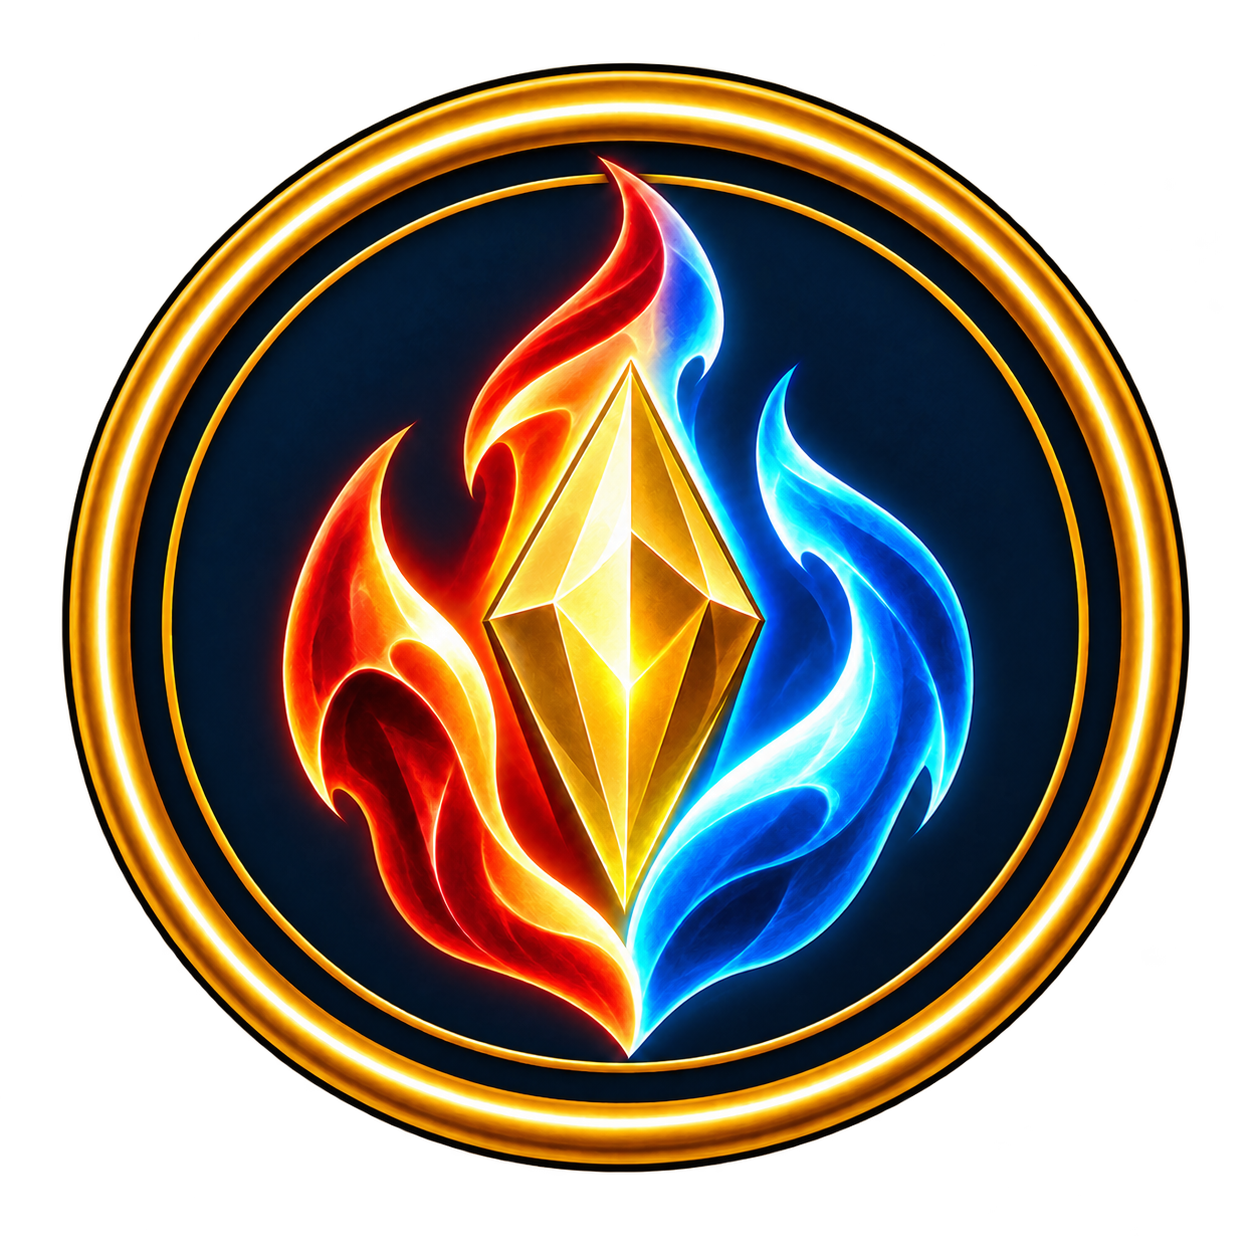
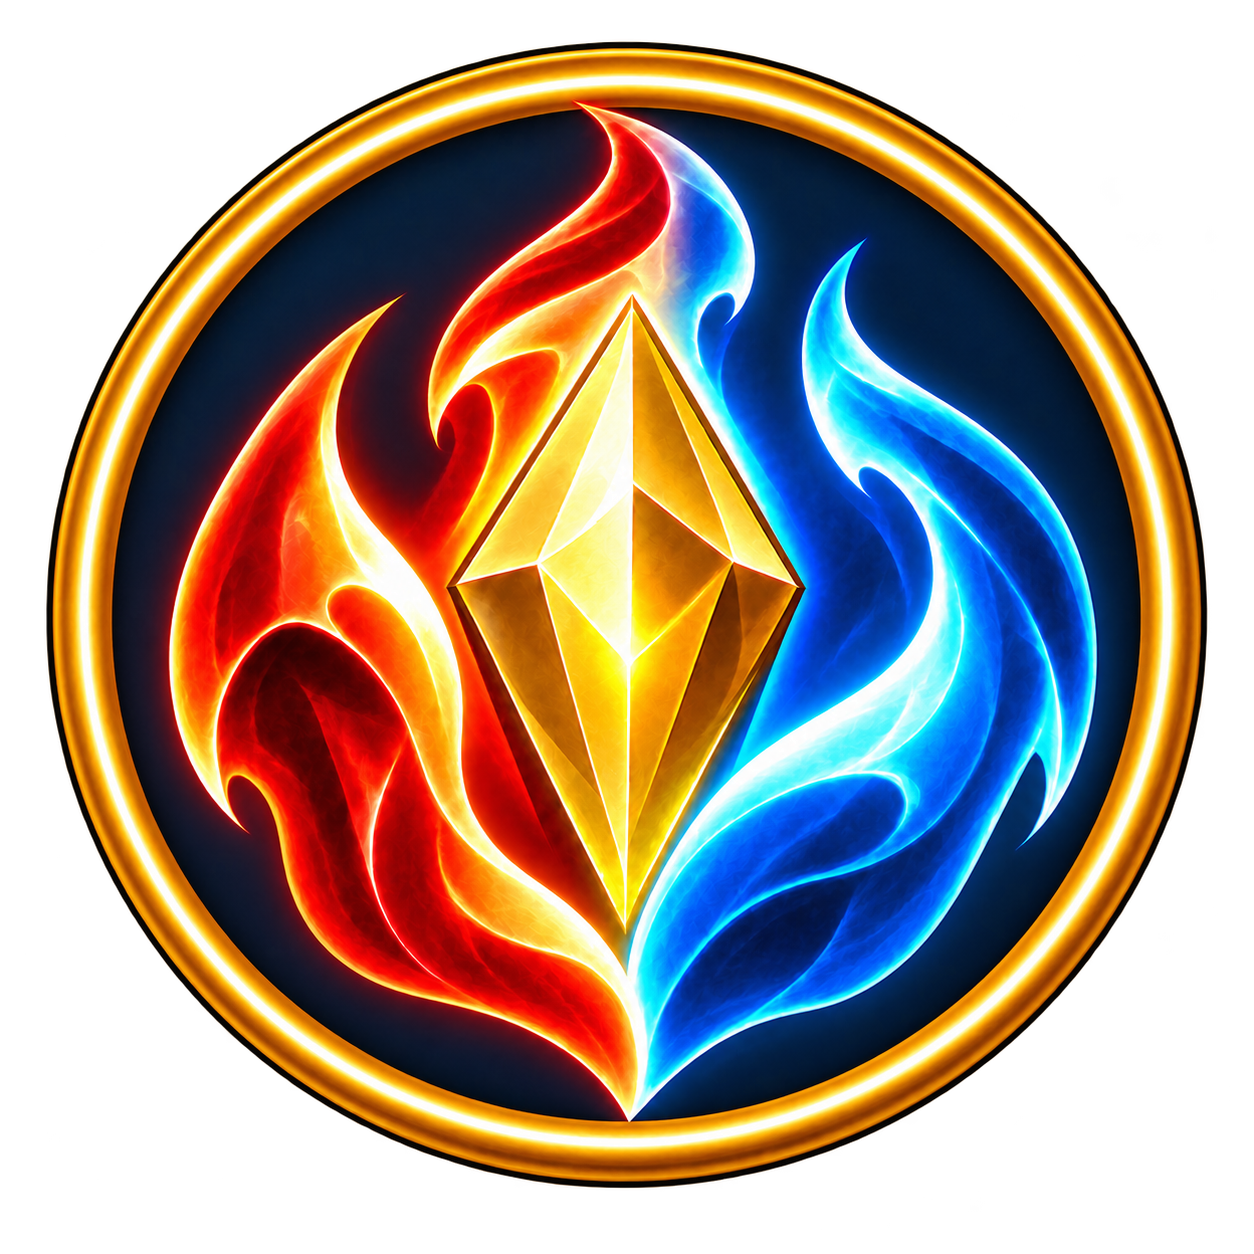
[Codex] feat: 保存單外框放大功能徽章

diff --git a/codex-authored/enamel-nav/SOURCE.md b/codex-authored/enamel-nav/SOURCE.md
@@ -25,3 +25,9 @@
 - 引用版本20261014-round；CSS快取1.0.61。使用者最後附圖指定第3個版本，採紅藍雙色火焰＋金色晶核的覺醒之焰接入，以這次附圖為最終依據。
 - `originals/talents.png`為威能獨立母圖，內建imagegen原創製作及改色，僅保留核定最終稿；兩個未選／改色前預覽留在聊天生成目錄，不納入正式素材。
 - 匯出工具優先採用`originals/<圖示名>.png`獨立母圖（如果存在），否則使用整組母圖；exports.json記錄獨立來源與SHA，重匯出及--check不會回退為整組圖中的舊威能。
+
+## 2026-10-14 單一外框與填滿主圖
+
+- 依使用者要求移除各徽章的細金色內圈，主體逐一等比放大至貼近外框內緣（不拉伸）；整組與威能獨立母圖均由imagegen修整。保留紅藍火焰／金色晶核及原配色，無外部素材。
+- 遊戲CSS外緣由原追加1px改為3px（再增加2px），圖示仍41.8px；不新增內圈。素材保留單一金色外緣與透明留白，現行引用20261014-single-rim／CSS1.0.62。
+- 設定按鈕移出主側欄，圖示settings.png仍保留來源與匯出供歷史維護；遊戲不再引用該圖。其餘九個功能圖示由原流程匯出及SHA驗證。
